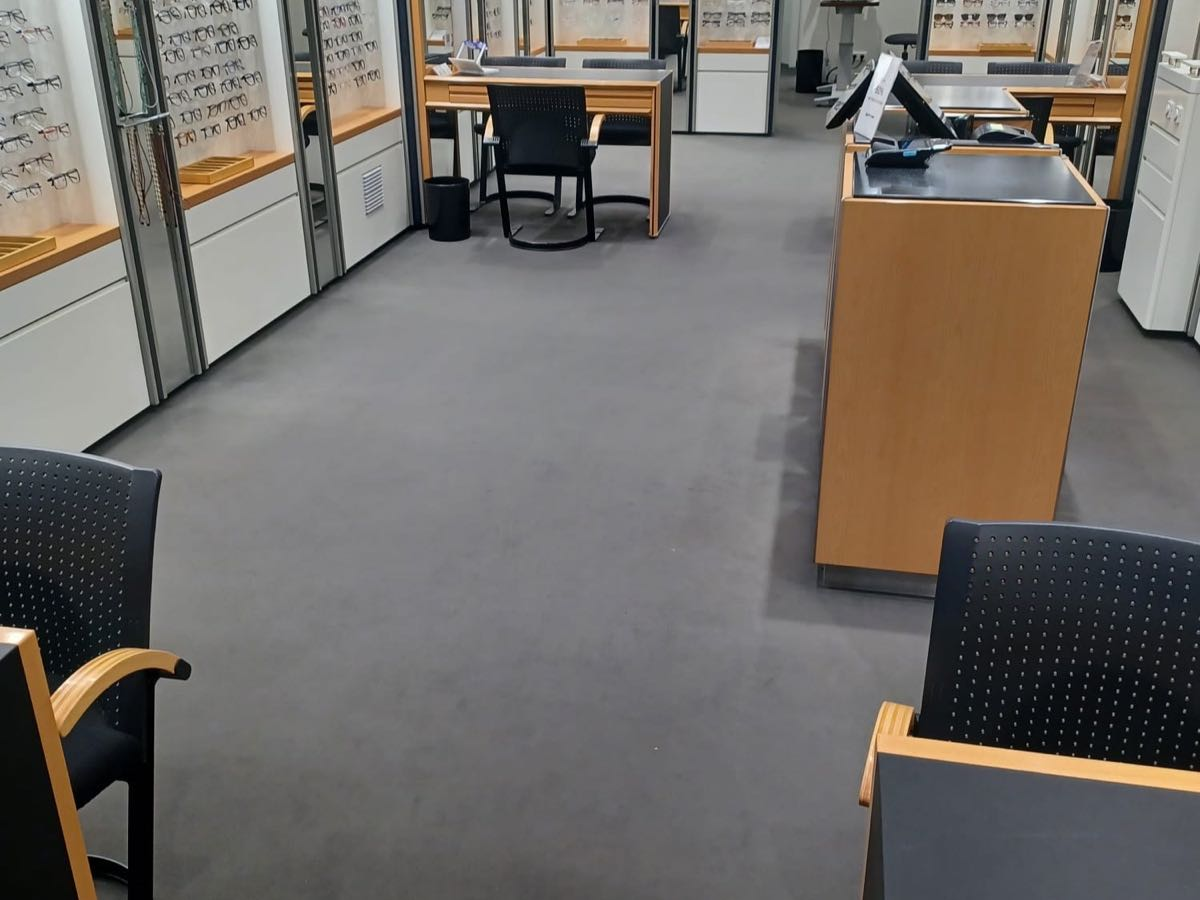
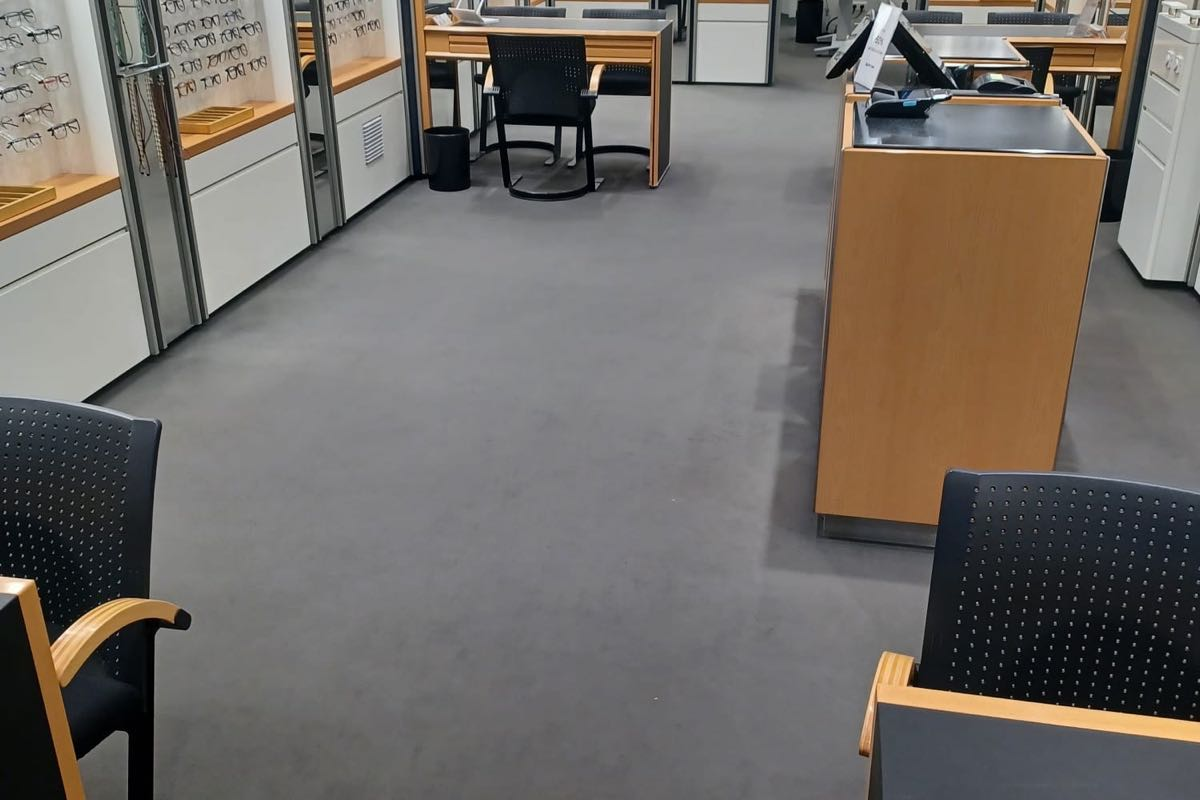
Kacheln auf 3:2, dazu ein Werkzeug, das die Aufnahmen prüft
Der Kunde erzeugt die neuen Aufnahmen in 3:2. Gerechnet ist das die
bessere Wahl: Die Kachel ist am Telefon 16:9 und am Rechner bisher 4:3.
Von einer 4:3-Aufnahme blieben am Telefon 75 Prozent stehen, von einer
3:2 dagegen 84. Stellt man den Kasten am Rechner ebenfalls auf 3:2,
ergibt das 100 zu 84 — besser als jede andere Kombination. Ein
quadratisches Bild wäre mit 75 zu 56 die schlechteste.

Alle vorhandenen Aufnahmen sind aus ihren Vorlagen neu auf 3:2
geschnitten, nicht aus den bereits beschnittenen Fassungen — sonst
verlöre man zweimal.

tools/bilder-pruefen.py
Drei Fehler sind in diesem Projekt schon durchgerutscht, zweimal
unbemerkt: dieselbe Datei an zwei Stellen, schwarze Ränder durch
Auffüllen statt Beschneiden, und unscharfe Vorlagen. Alle drei sind
messbar, also gehören sie in ein Werkzeug und nicht in meinen Kopf.

Beim ersten Lauf hat die Randprüfung gleich einen falschen Alarm
geliefert: die Schaufensteraufnahme hat oben einen dunklen
Schattenstreifen unter dem Sturz. Ein aufgefüllter Rand ist aber nicht
nur dunkel, sondern auch gleichförmig. Die Prüfung verlangt jetzt beides
— geringe Helligkeit und geringe Streuung entlang der Kante.

diff --git a/client/src/components/ServicesSection.tsx b/client/src/components/ServicesSection.tsx
@@ -63,7 +63,7 @@ export default function ServicesSection() {
                 >
                   <div className="absolute left-0 right-0 top-0 h-1 bg-gradient-to-r from-[#122272] to-[#52b719] opacity-0 transition-opacity group-hover:opacity-100" />
 
-                  <div className="relative mb-4 aspect-[16/9] overflow-hidden rounded-xl bg-slate-200 sm:aspect-[4/3]">
+                  <div className="relative mb-4 aspect-[16/9] overflow-hidden rounded-xl bg-slate-200 sm:aspect-[3/2]">
                     <img
                       src={service.image}
                       alt=""

diff --git a/tools/bilder-pruefen.py b/tools/bilder-pruefen.py
@@ -1,0 +1,143 @@
+#!/usr/bin/env python3
+# -*- coding: utf-8 -*-
+"""Prüft die Aufnahmen unter client/public/fotos.
+
+Drei Dinge, die in diesem Projekt schon einmal danebengegangen sind:
+
+* Zwei Ziele mit derselben Datei. Entsteht, wenn sips abbricht und die
+  Zwischendatei liegen bleibt — der Rückgabewert ist dabei 0.
+* Schwarze Ränder. Entstehen, wenn die Zielhöhe über der Quellhöhe
+  liegt; sips füllt dann auf, statt zu beschneiden.
+* Unscharfe Vorlagen. Unter einer Varianz von 60 im Laplace-Operator
+  ist eine Aufnahme sichtbar weich.
+"""
+import glob, os, struct, subprocess, sys, zlib
+
+SCHWELLE_SCHAERFE = 60
+SCHWELLE_RAND = 12
+
+
+def png_lesen(pfad):
+    d = open(pfad, "rb").read()
+    i, idat, breite, hoehe, tiefe, farbe = 8, b"", 0, 0, 0, 0
+    while i < len(d):
+        laenge = struct.unpack(">I", d[i:i + 4])[0]
+        art = d[i + 4:i + 8]
+        rumpf = d[i + 8:i + 8 + laenge]
+        if art == b"IHDR":
+            breite, hoehe, tiefe, farbe = struct.unpack(">IIBB", rumpf[:10])
+        elif art == b"IDAT":
+            idat += rumpf
+        elif art == b"IEND":
+            break
+        i += 12 + laenge
+    kanaele = {0: 1, 2: 3, 4: 2, 6: 4}[farbe]
+    roh = zlib.decompress(idat)
+    schritt = breite * kanaele
+    aus = bytearray(hoehe * schritt)
+    vorher = bytearray(schritt)
+    p = 0
+    for y in range(hoehe):
+        art_f = roh[p]; p += 1
+        zeile = bytearray(roh[p:p + schritt]); p += schritt
+        for x in range(schritt):
+            a = zeile[x - kanaele] if x >= kanaele else 0
+            b = vorher[x]
+            c = vorher[x - kanaele] if x >= kanaele else 0
+            if art_f == 1:   zeile[x] = (zeile[x] + a) & 255
+            elif art_f == 2: zeile[x] = (zeile[x] + b) & 255
+            elif art_f == 3: zeile[x] = (zeile[x] + (a + b) // 2) & 255
+            elif art_f == 4:
+                pp = a + b - c
+                pa, pb, pc = abs(pp - a), abs(pp - b), abs(pp - c)
+                zeile[x] = (zeile[x] + (a if (pa <= pb and pa <= pc) else (b if pb <= pc else c))) & 255
+        aus[y * schritt:(y + 1) * schritt] = zeile
+        vorher = zeile
+    grau = bytearray(breite * hoehe)
+    for y in range(hoehe):
+        for x in range(breite):
+            o = y * schritt + x * kanaele
+            grau[y * breite + x] = ((aus[o] * 299 + aus[o + 1] * 587 + aus[o + 2] * 114) // 1000
+                                    if kanaele >= 3 else aus[o])
+    return breite, hoehe, grau
+
+
+def schaerfe(grau, b, h):
+    summe = quadrat = n = 0
+    for y in range(1, h - 1):
+        z = y * b
+        for x in range(1, b - 1):
+            lap = (grau[z + x - 1] + grau[z + x + 1] + grau[z - b + x] + grau[z + b + x]) - 4 * grau[z + x]
+            summe += lap; quadrat += lap * lap; n += 1
+    m = summe / n
+    return quadrat / n - m * m
+
+
+def main():
+    ordner = sys.argv[1] if len(sys.argv) > 1 else "client/public/fotos"
+    dateien = sorted(glob.glob(os.path.join(ordner, "*.jpg")))
+    if not dateien:
+        print("keine Dateien in", ordner); return 1
+
+    fehler = []
+    gesehen = {}
+    print(f"{'DATEI':<34}{'MASSE':>12}{'VERH':>7}{'SCHÄRFE':>9}  RÄNDER")
+    for f in dateien:
+        roh = subprocess.run(["sips", "-g", "pixelWidth", "-g", "pixelHeight", f],
+                             capture_output=True, text=True).stdout
+        w = int([z for z in roh.split() if z.isdigit()][0])
+        h = int([z for z in roh.split() if z.isdigit()][1])
+
+        # gleiche Datei zweimal?
+        summe = subprocess.run(["md5", "-q", f], capture_output=True, text=True).stdout.strip()
+        if summe in gesehen:
+            fehler.append(f"{os.path.basename(f)} ist dieselbe Datei wie {gesehen[summe]}")
+        gesehen[summe] = os.path.basename(f)
+
+        klein = "/tmp/pruef.png"
+        subprocess.run(["sips", "-s", "format", "png", "-Z", "300", f, "--out", klein],
+                       capture_output=True)
+        b, hh, g = png_lesen(klein)
+        # Ein aufgefüllter Rand ist nicht nur dunkel, sondern auch
+        # gleichförmig. Ein dunkler Schattenstreifen im Motiv — etwa
+        # unter einem Sturz — ist dunkel, aber uneben. Ohne die zweite
+        # Bedingung meldet die Prüfung solche Aufnahmen fälschlich.
+        def kante(werte):
+            m = sum(werte) / len(werte)
+            abw = (sum((v - m) ** 2 for v in werte) / len(werte)) ** 0.5
+            return m, abw
+
+        kanten = {
+            "oben": kante(list(g[0:b])),
+            "unten": kante(list(g[(hh - 1) * b:hh * b])),
+            "links": kante([g[y * b] for y in range(hh)]),
+            "rechts": kante([g[y * b + b - 1] for y in range(hh)]),
+        }
+        raender = min(m for m, _ in kanten.values())
+        for name, (m, abw) in kanten.items():
+            if m < SCHWELLE_RAND and abw < 6:
+                fehler.append(
+                    f"{os.path.basename(f)} hat einen schwarzen Rand ({name},"
+                    f" Helligkeit {m:.0f}, Streuung {abw:.1f})")
+
+        subprocess.run(["sips", "-s", "format", "png", "-c", "700", "700", f, "--out", klein],
+                       capture_output=True)
+        b2, h2, g2 = png_lesen(klein)
+        s = schaerfe(g2, b2, h2)
+        if s < SCHWELLE_SCHAERFE:
+            fehler.append(f"{os.path.basename(f)} ist unscharf ({s:.0f})")
+
+        print(f"{os.path.basename(f):<34}{w}x{h:<7}{w/h:>7.2f}{s:>9.0f}  {raender:>3.0f}")
+
+    print()
+    if fehler:
+        print("FEHLER:")
+        for e in fehler:
+            print("  -", e)
+        return 1
+    print(f"{len(dateien)} Aufnahmen geprüft, nichts zu beanstanden.")
+    return 0
+
+
+if __name__ == "__main__":
+    sys.exit(main())
